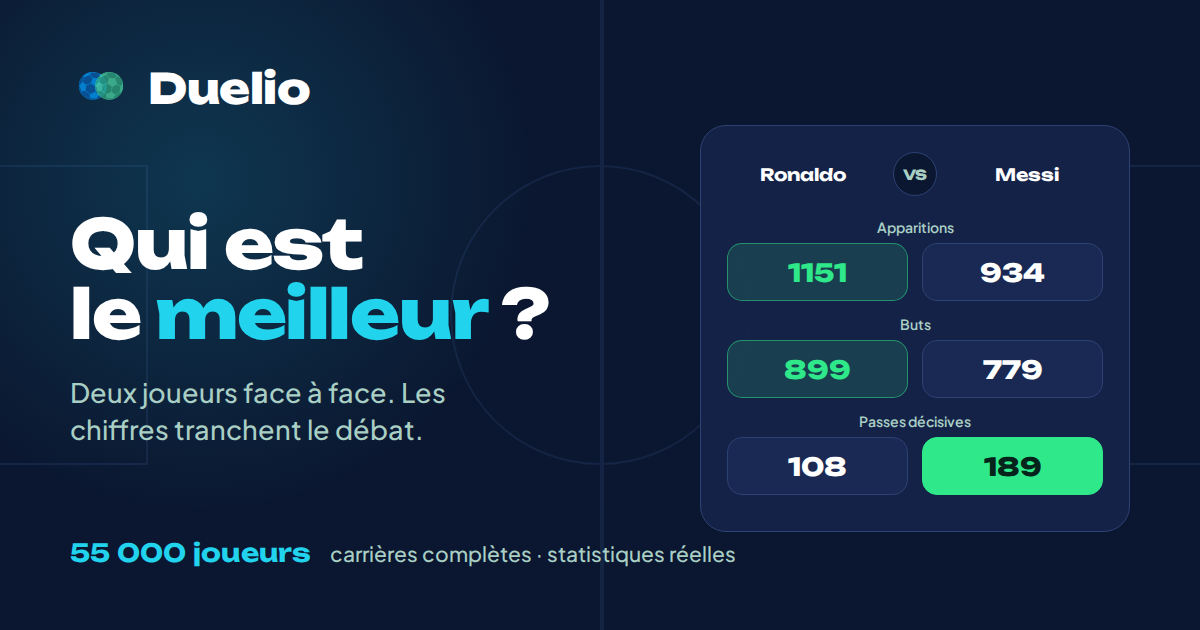
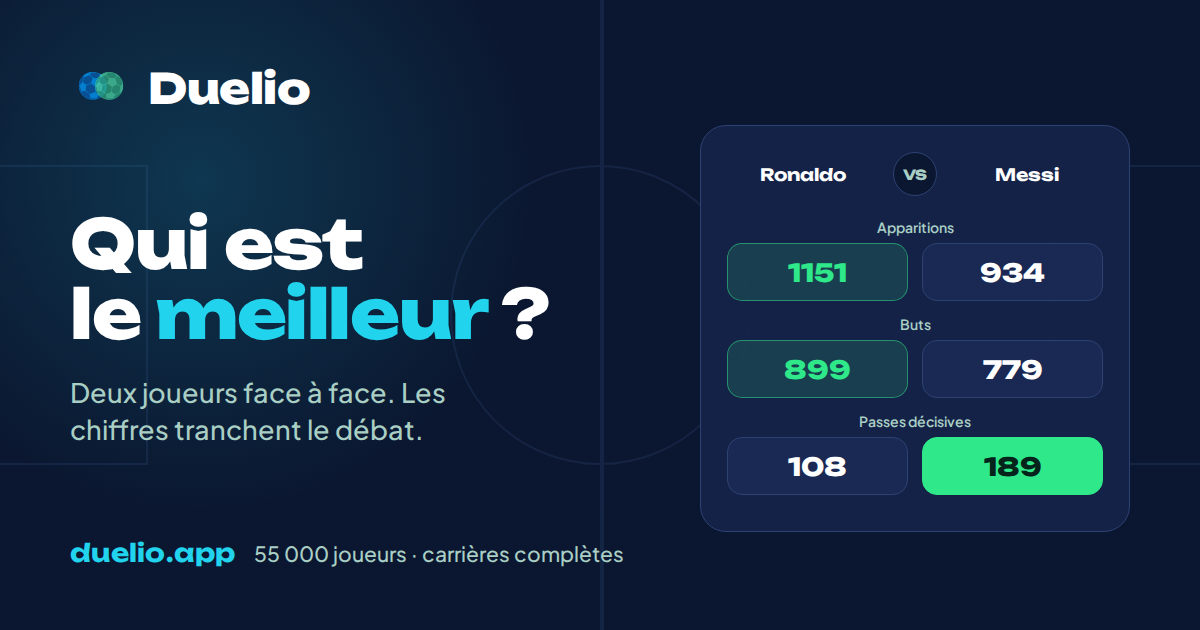
Le partage pointe vers duelio.app
Les balises d'aperçu, l'adresse canonique et le texte qui accompagne une image
partagée utilisaient duelio-app.bensouna-ahmed.workers.dev, faute de pouvoir
vérifier depuis ici que le domaine était branché. Il l'est : tout bascule sur
https://duelio.app/, et l'image d'aperçu porte de nouveau le domaine en pied.

Les adresses des données restent sur workers.dev : l'application Android
embarque la même page sans le dossier data, et a besoin d'adresses absolues.

Claude-Session: https://claude.ai/code/session_017t2UBrsAAmM4gb4Pm9fkbq

Changed region(s): [[0.0617, 0.8444, 0.6167, 0.9048]]

diff --git a/www/index.html b/www/index.html
@@ -12,14 +12,14 @@
      au manifeste plus bas, ces balises doivent donc être écrites en dur dans la page.
      Sans elles, un lien Duelio partagé n'affiche rien du tout : pas d'image, pas de
      titre, pas de description. -->
-<link rel="canonical" href="https://duelio-app.bensouna-ahmed.workers.dev/">
+<link rel="canonical" href="https://duelio.app/">
 <meta property="og:type" content="website">
 <meta property="og:site_name" content="Duelio">
 <meta property="og:locale" content="fr_FR">
-<meta property="og:url" content="https://duelio-app.bensouna-ahmed.workers.dev/">
+<meta property="og:url" content="https://duelio.app/">
 <meta property="og:title" content="Duelio — Qui est le meilleur ?">
 <meta property="og:description" content="Deux joueurs face à face : les chiffres tranchent le débat. 55 000 joueurs, carrières complètes, et une image prête pour vos stories.">
-<meta property="og:image" content="https://duelio-app.bensouna-ahmed.workers.dev/og-image.png">
+<meta property="og:image" content="https://duelio.app/og-image.png">
 <meta property="og:image:type" content="image/png">
 <meta property="og:image:width" content="1200">
 <meta property="og:image:height" content="630">
@@ -27,14 +27,14 @@
 <meta name="twitter:card" content="summary_large_image">
 <meta name="twitter:title" content="Duelio — Qui est le meilleur ?">
 <meta name="twitter:description" content="Deux joueurs face à face : les chiffres tranchent le débat. 55 000 joueurs, carrières complètes.">
-<meta name="twitter:image" content="https://duelio-app.bensouna-ahmed.workers.dev/og-image.png">
+<meta name="twitter:image" content="https://duelio.app/og-image.png">
 <meta name="mobile-web-app-capable" content="yes">
 <meta name="apple-mobile-web-app-capable" content="yes">
 <meta name="apple-mobile-web-app-status-bar-style" content="black-translucent">
 <meta name="apple-mobile-web-app-title" content="Duelio">
 <!-- Repère de version : permet de vérifier d'un coup d'œil, dans le code source
      de la page en ligne, quelle version Cloudflare sert réellement. -->
-<meta name="duelio-version" content="2026-10-19-13h45 — index decoupe par initiale">
+<meta name="duelio-version" content="2026-10-19-14h30 — partage sur duelio.app">
 <link rel="preconnect" href="https://fonts.googleapis.com">
 <!-- Les fichiers de police viennent de gstatic, pas de googleapis : sans cette
      ligne le navigateur n'ouvre la connexion qu'après avoir lu la feuille de
@@ -3174,7 +3174,7 @@ function shortName(p){
 function seasonLabel(season){ return season ? `${season}-${String(season+1).slice(2)}` : ''; }
 
 // Adresse de l'application, pour le texte qui accompagne une image partagée.
-const SITE_URL = 'https://duelio-app.bensouna-ahmed.workers.dev/';
+const SITE_URL = 'https://duelio.app/';
 // Sans adresse, celui qui reçoit l'image n'a aucun moyen de retrouver Duelio : l'image
 // circule, l'application non. On nomme aussi les deux joueurs, parce qu'un duel nommé
 // donne envie de cliquer bien plus qu'un « mon duel ».
